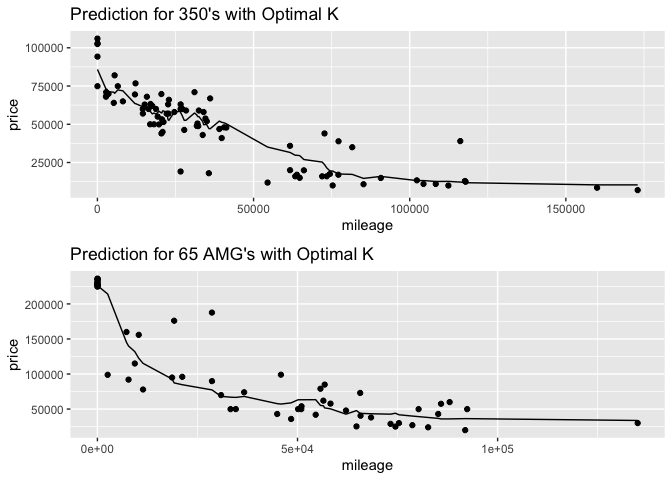
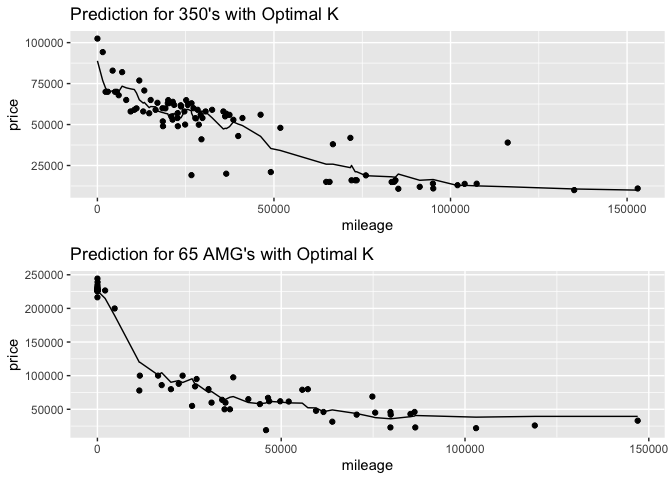
edit kable

diff --git a/Exercise_1.md b/Exercise_1.md
@@ -1,3 +1,7 @@
+-   title: “Exercise - 1”
+-   author: “Jipeng Cheng, Weidi Hou, Yu-Ting Huang”
+-   date: “2/8/2022”
+
 # Data visualization: flights at ABIA
 
 ## Worst Destination Airports
@@ -59,7 +63,6 @@ month. Definitely there are new blood across different months like
 Boston airport in February, Ontario airport in April.
 
 <table>
-<caption>Table 1: Top 5 Worst Destinations across Months</caption>
 <thead>
 <tr class="header">
 <th style="text-align: right;">Month</th>
@@ -199,7 +202,6 @@ Figure 5: Delay Rate by Month in 2008
 ## Part A
 
 <table>
-<caption>Table 2: Top 10 Most Popular Songs Since 1958</caption>
 <thead>
 <tr class="header">
 <th style="text-align: left;">Performer</th>
@@ -330,7 +332,7 @@ with KNN method should be
 and the optimal K for predicting 65 AMG’s price with KNN method should
 be
 
-    ## [1] 14
+    ## [1] 13
 
 given they yield the smallest RMSEs respectively.
 
